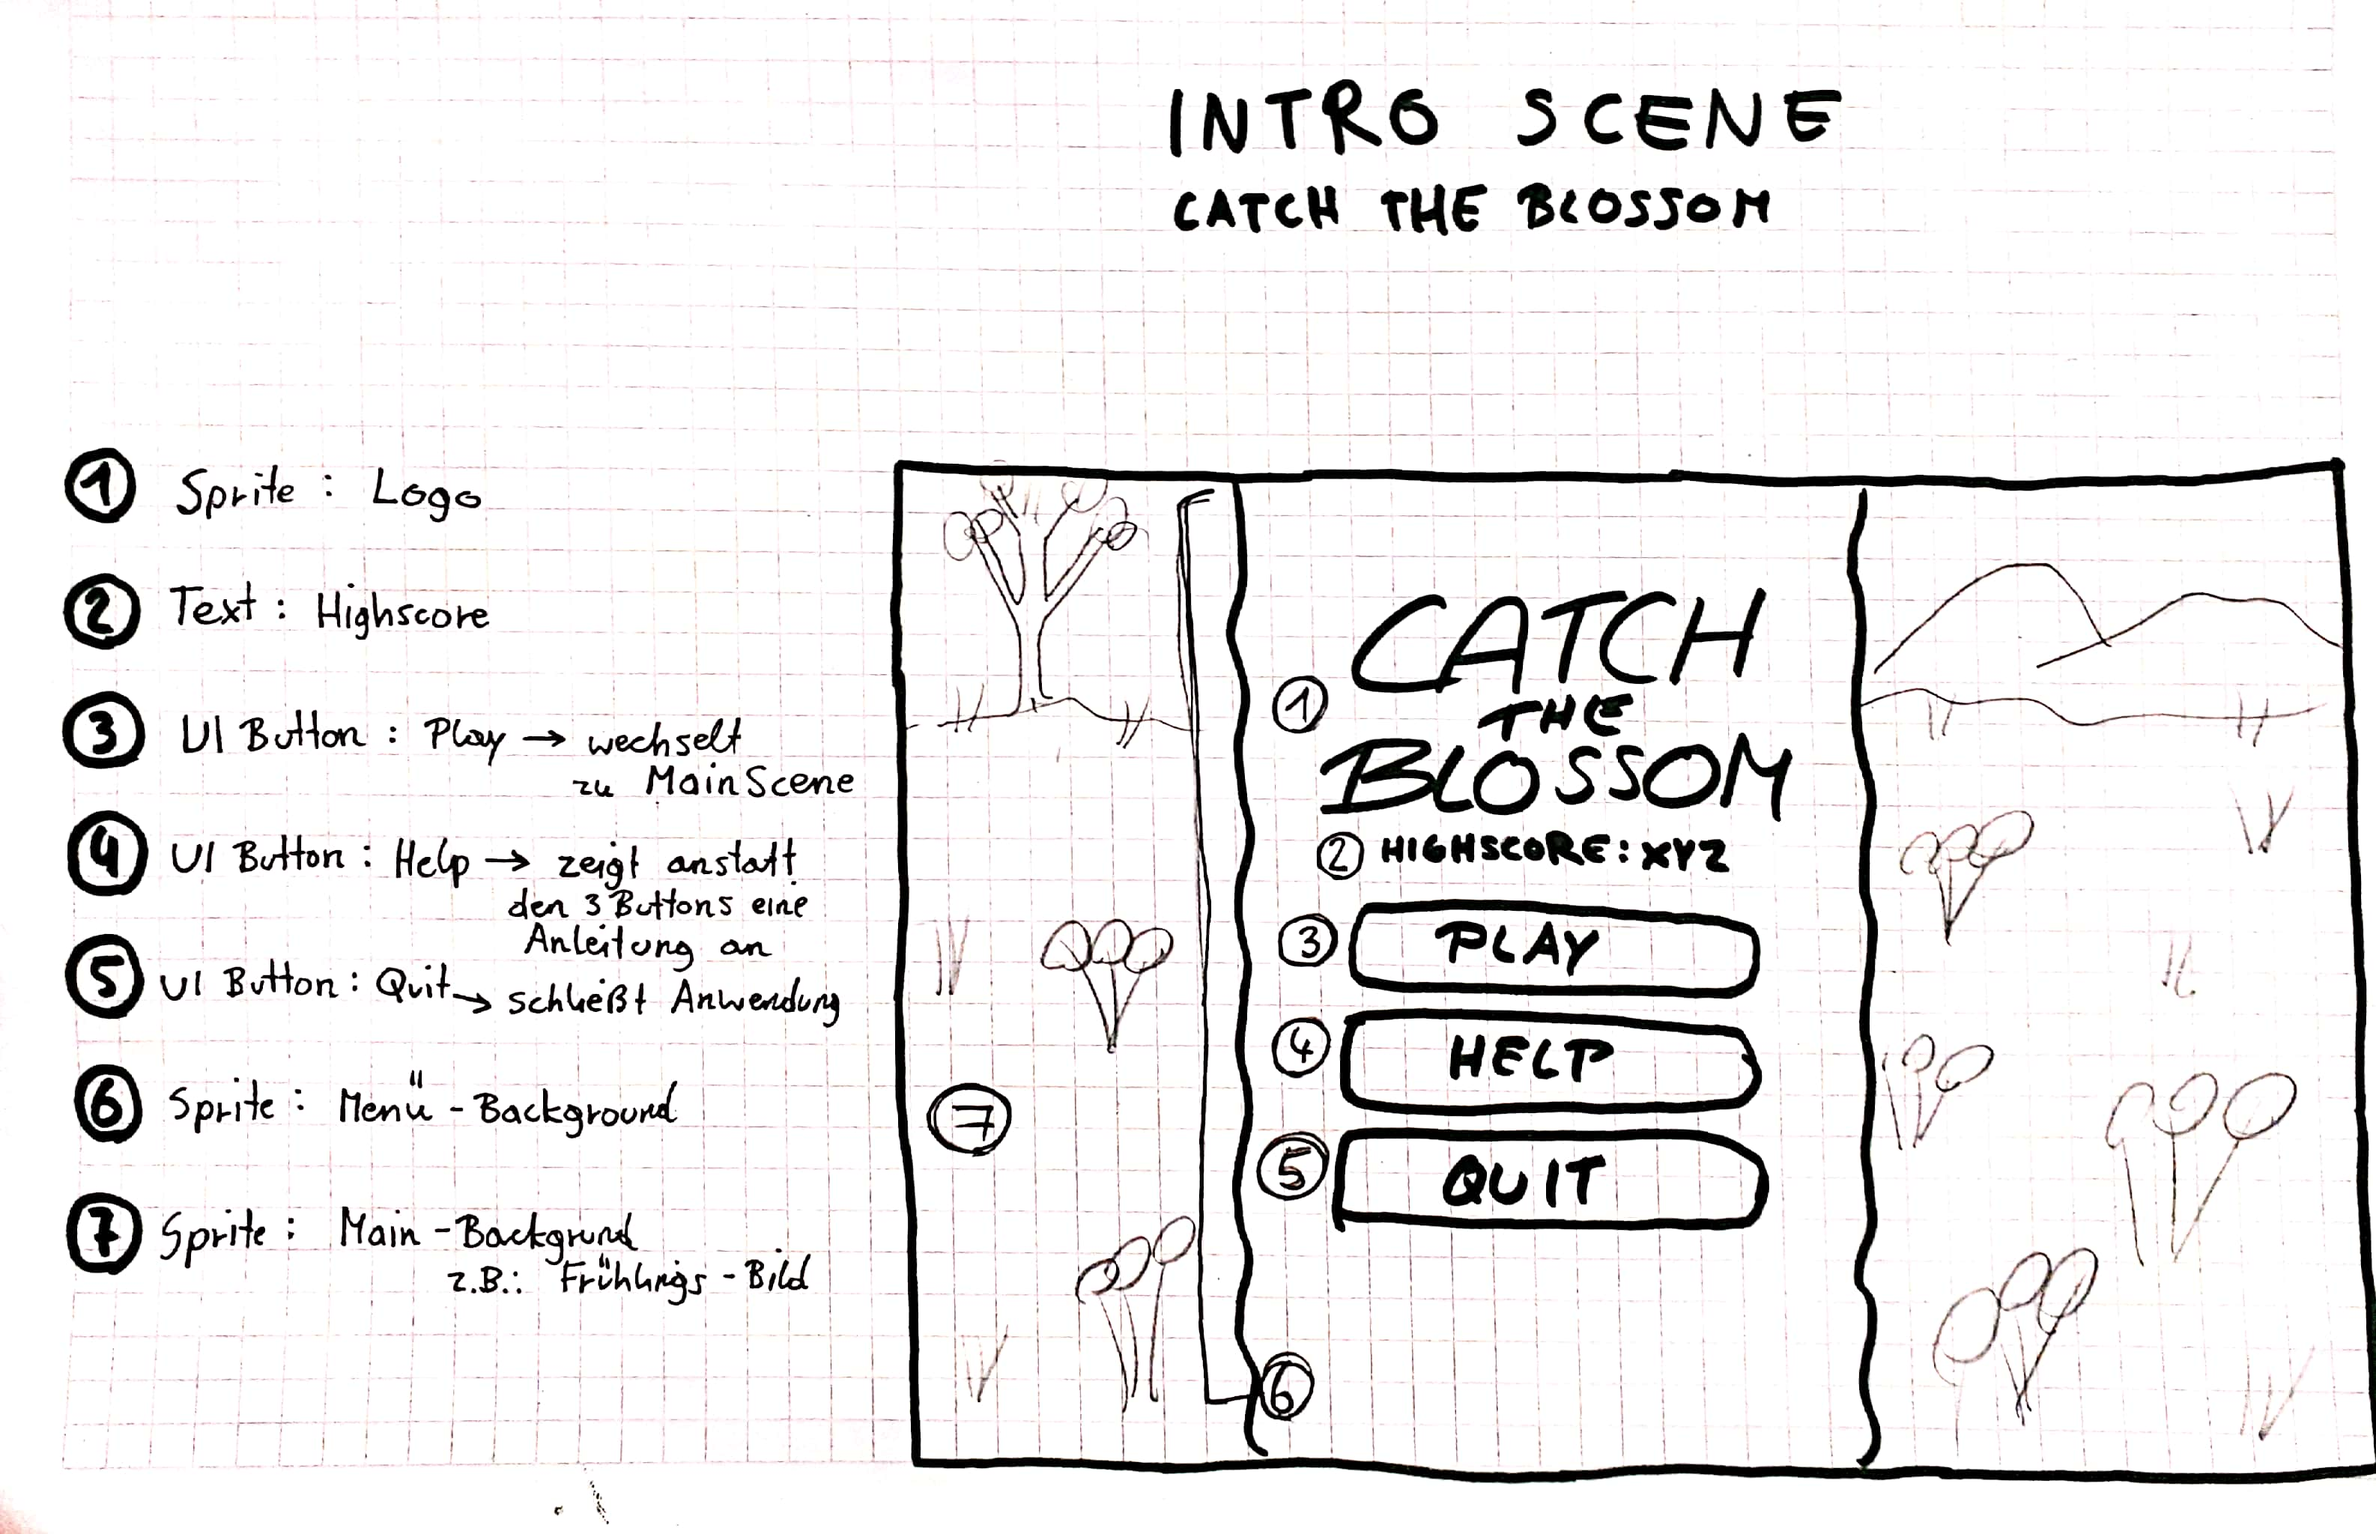
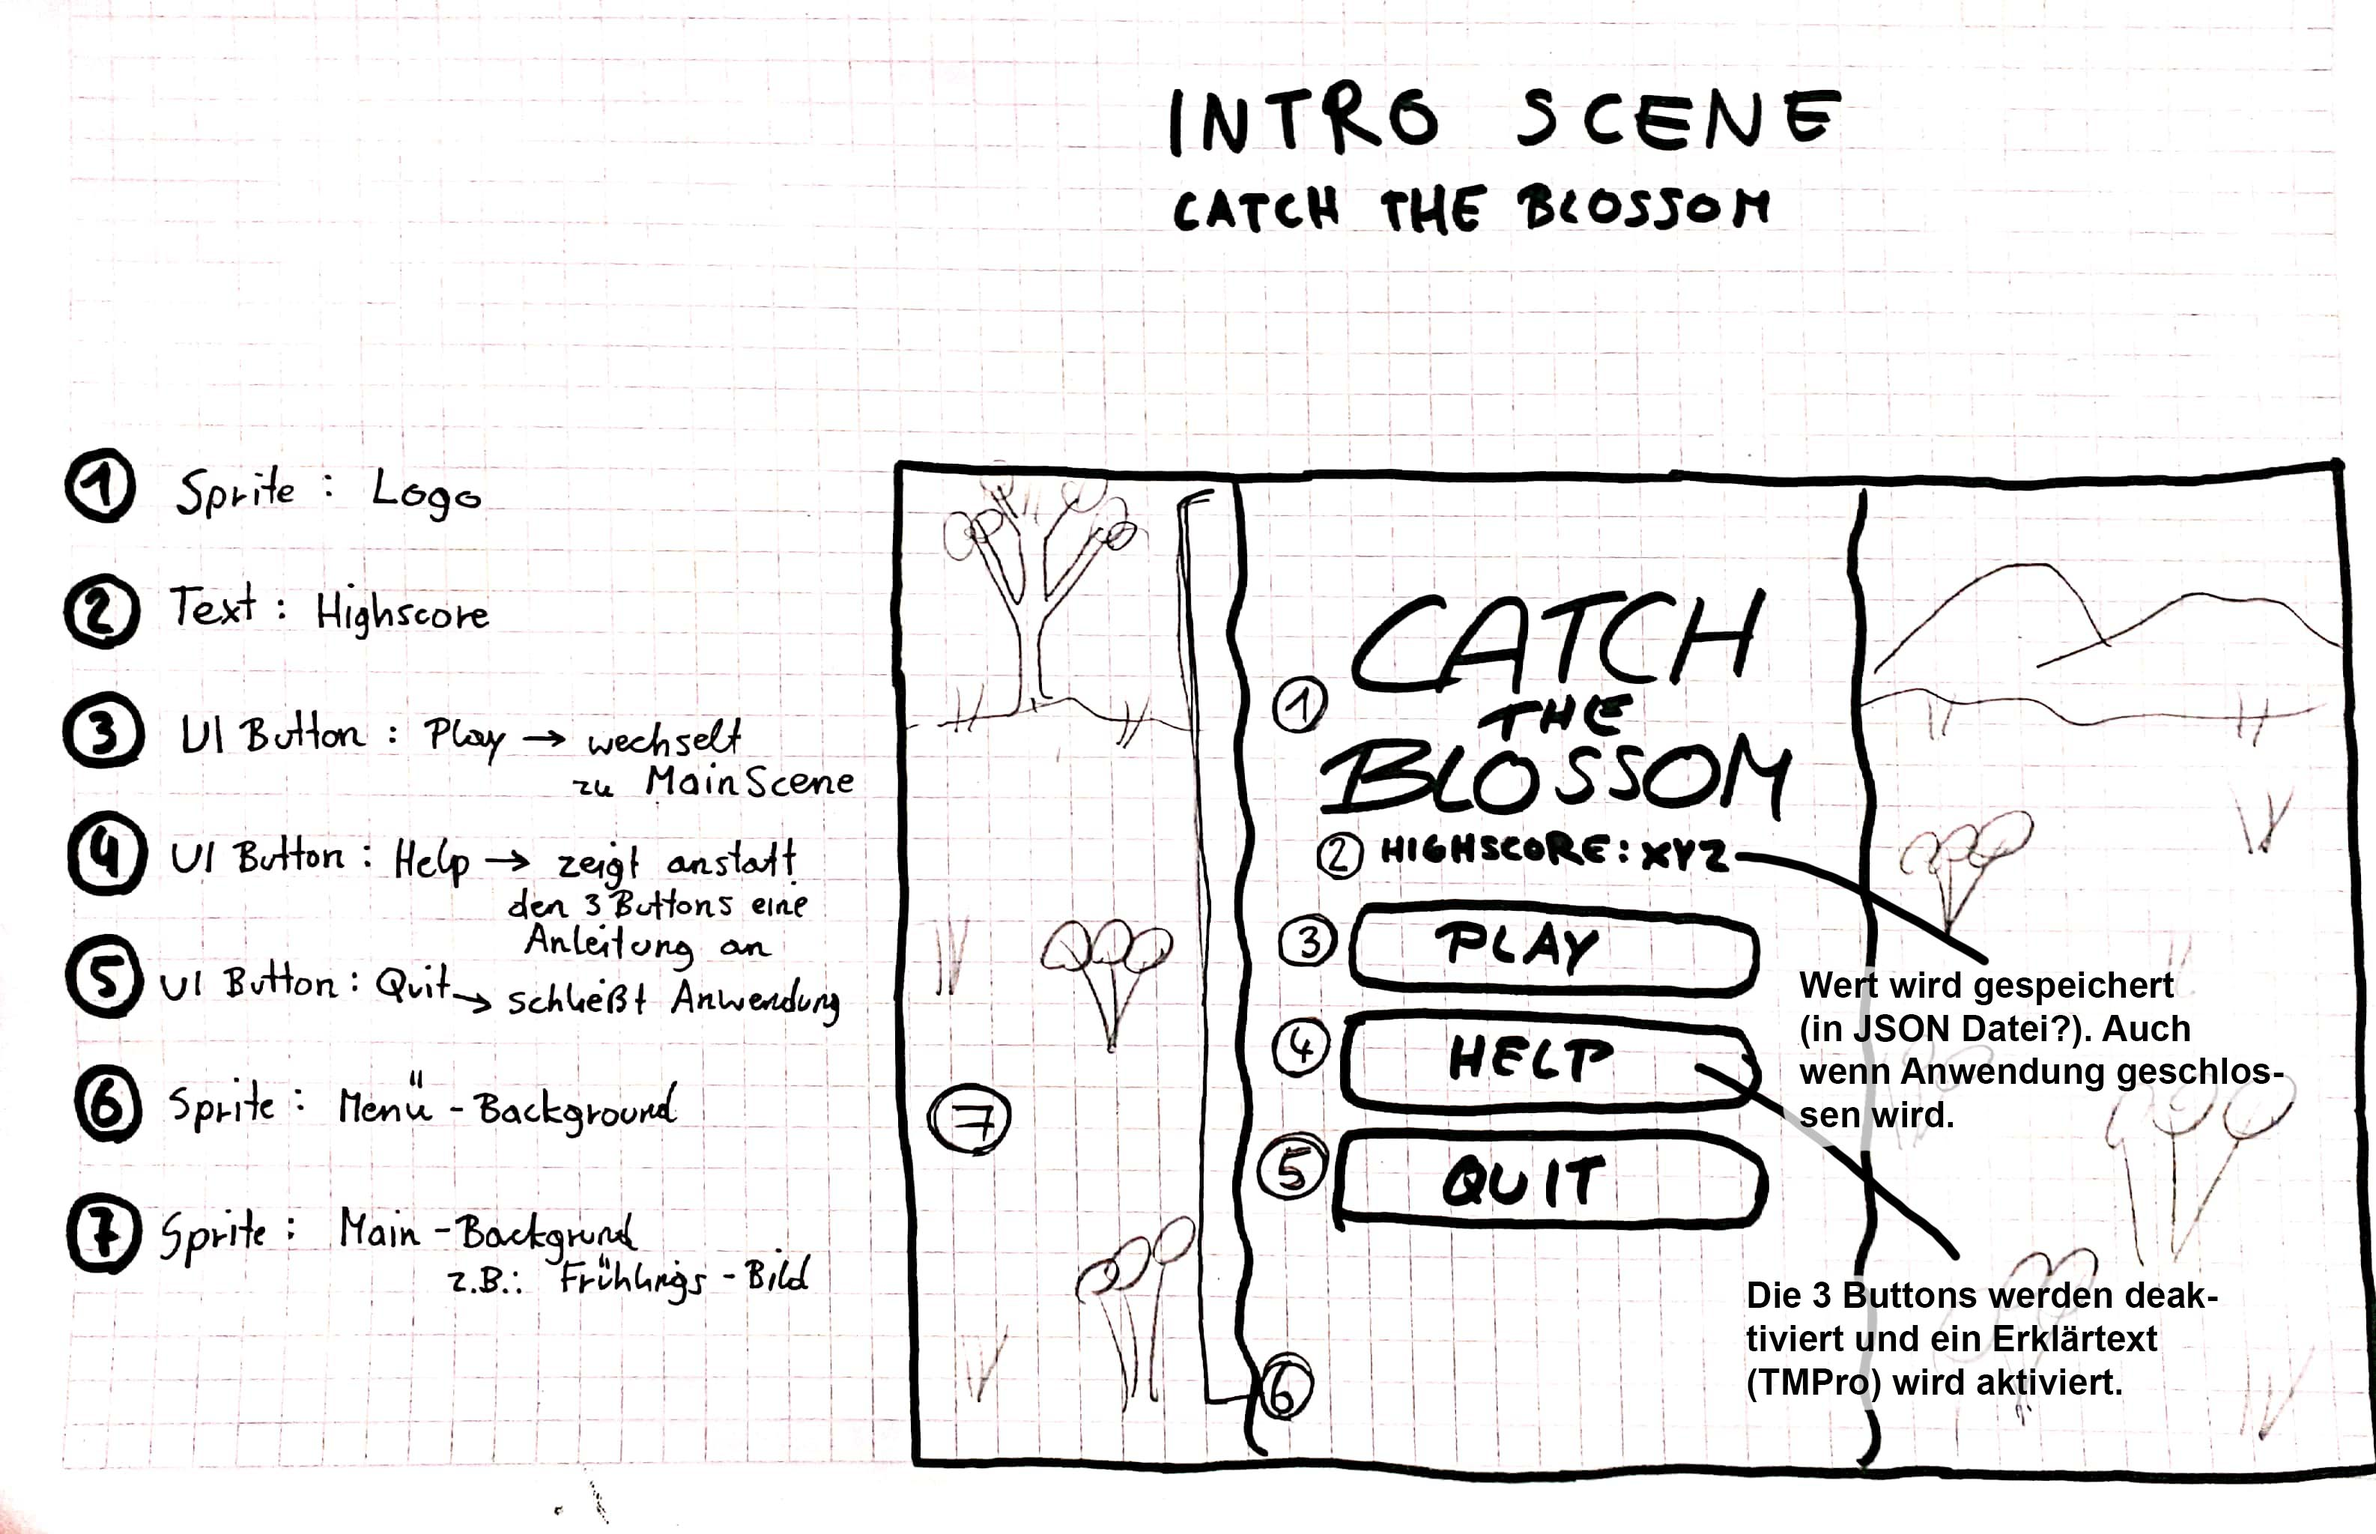
update readme, modified concept sketches and added some info

Changed region(s): [[0.7178, 0.5625, 0.9675, 0.9375], [0.7178, 0.5312, 0.7491, 0.5625]]

diff --git a/README.md b/README.md
@@ -1,7 +1,7 @@
 # minigame1-alexh
 
-**Working Title:** Catch The Blossom
-**Progress:** 5%
+* **Working Title:** Catch The Blossom
+* **Progress:** 20%
 
 ### Development Platform
   * OS: Windows 10 Version 1803
@@ -34,5 +34,7 @@
 
 ### Lessons learned
 - How to start concepting a game
+- Working with Unity 2D Colliders and Rigidbodies
+- Working with Unity Inputs (Horizontal Axis)
 
 ##### © Copyright by Alexander Hödlmoser
